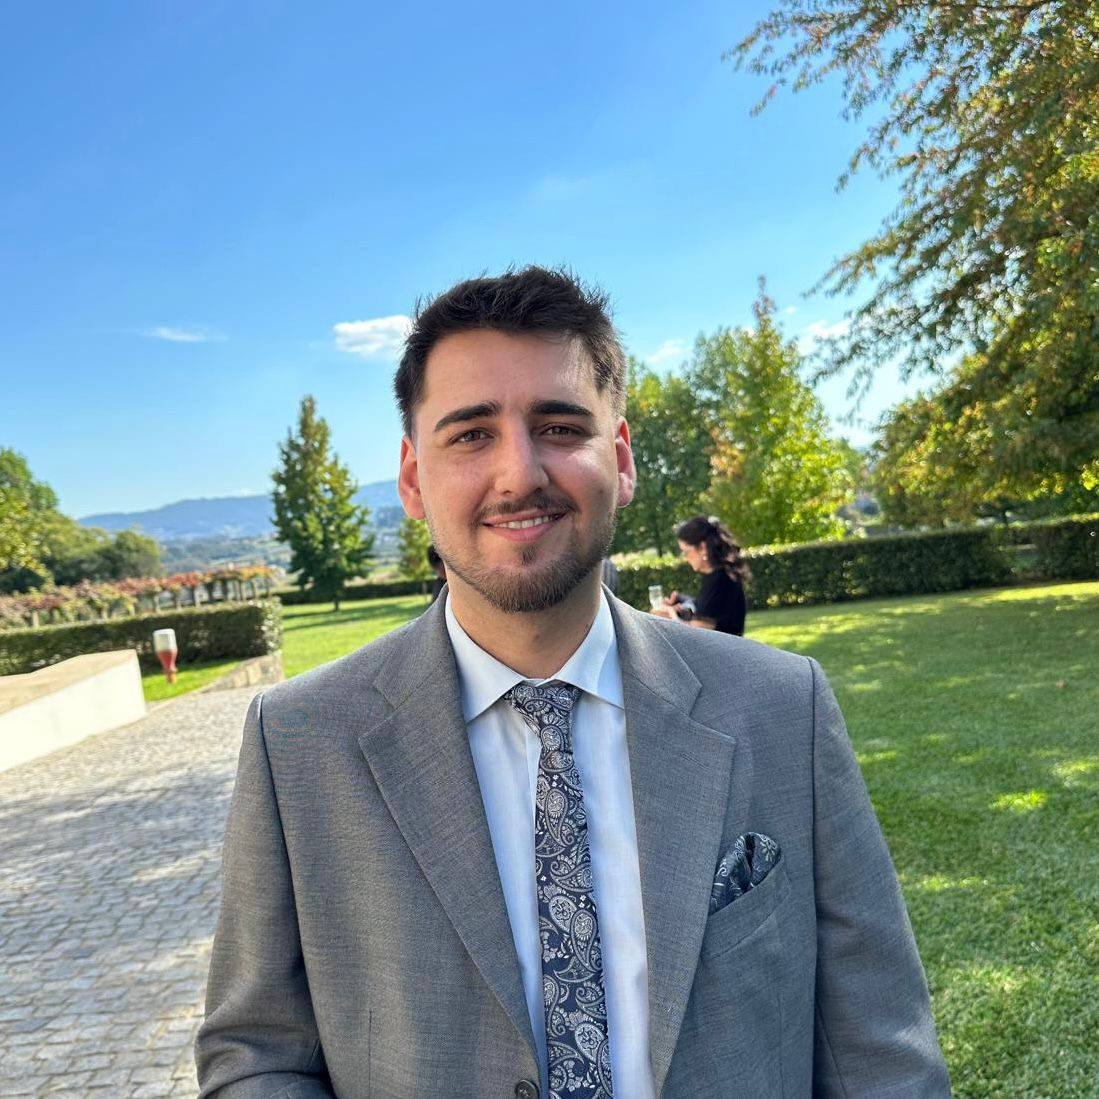
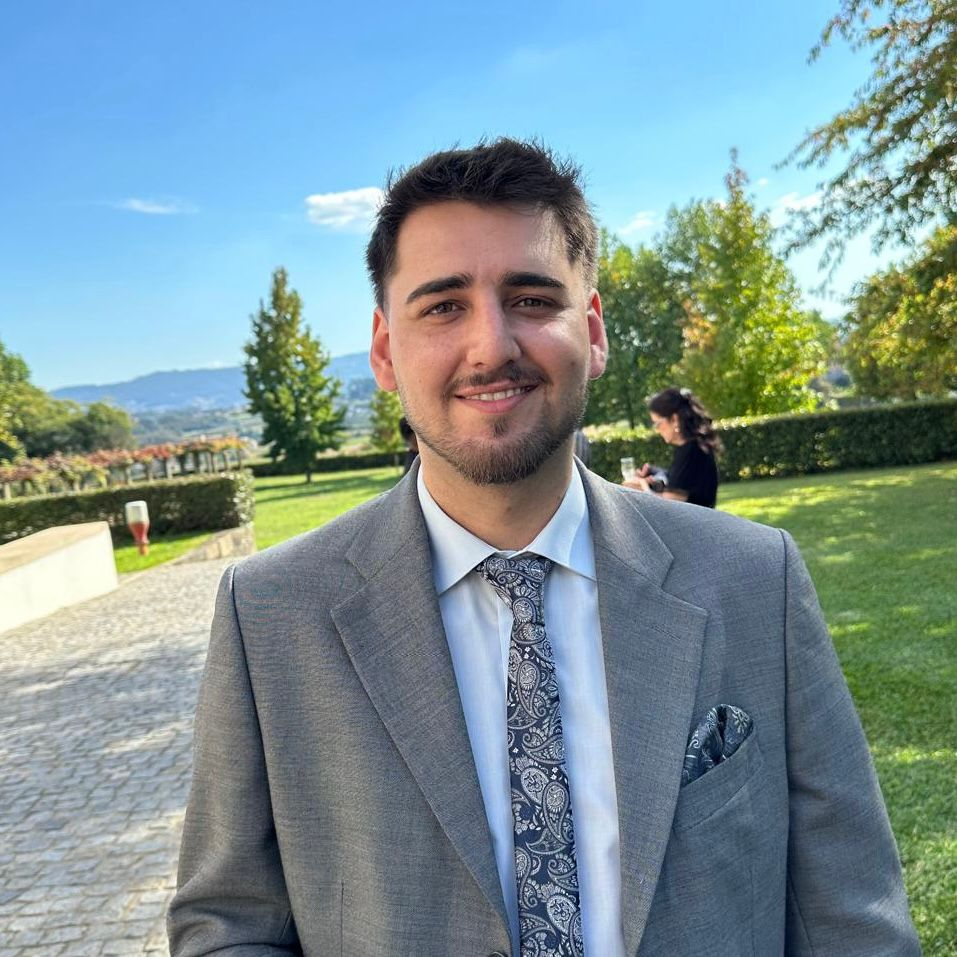
fix: cut more pic of dda fix: added index index.html to the config file in order for localhost to open directly index.html

diff --git a/www/html/index.html b/www/html/index.html
@@ -58,9 +58,9 @@
 				class="w-full md:w-[48%] mb-6 mt-12 max-w-3xl bg-black-900/15 backdrop-blur-md rounded-2xl p-8 shadow-[0_0_15px_rgba(100,20,120,0.8)]">
 				<h3 class="mt-2 mb-6 text-[rgba(100,20,120,1)] uppercase">GET Request Test:</h3>
 				<div class="flex justify-center">
-					<form class="mb-2 flex" action="/index.html" method="GET">
-						<input class="text-[rgba(100,20,120,1)] px-4 py-2 rounded-2xl" type="text" name="path"
-							placeholder="Enter a location path">
+					<form id="get-method-form" class="mb-2 flex" action="/index.html" method="GET">
+						<input id="get-path-input" class="text-[rgba(100,20,120,1)] px-4 py-2 rounded-2xl" type="text"
+							name="path" placeholder="Enter a location path">
 						<button class="ml-3 text-gray-500 px-4 py-2 rounded-full shadow-[0_0_15px_rgba(100,20,120,0.8)] hover:shadow-[0_0_8px_rgba(100,20,120,0.80)] 
                    transition-all duration-300" type="submit">Search Info</button>
 					</form>
@@ -171,10 +171,9 @@
 								'bg-black-900/15'
 							);
 
-							if (targetId == '#method-testing') 
+							if (targetId == '#method-testing')
 								mainContainer.classList.add('max-w-6xl');
-							else
-							{
+							else {
 								mainContainer.classList.add(
 									'backdrop-blur-md', 'rounded-2xl', 'p-8',
 									'shadow-[0_0_15px_rgba(100,20,120,0.8)]',
@@ -199,6 +198,27 @@
 					}, 300);
 				}
 			});
+		});
+
+		//to prevent the button 'Search Info' from reloading the page
+		//check if the URL has a hash or query params
+		window.addEventListener('load', () => {
+			const hash = window.location.hash;
+			const urlParams = new URLSearchParams(window.location.search);
+
+			// if there is a search query (?path=...), force the view to Method Testing
+			if (urlParams.has('path')) 
+			{
+				const testingLink = document.querySelector('a[href="#method-testing"]');
+				if (testingLink) 
+					testingLink.click();
+			} 
+			else if (hash) 
+			{
+				// if there's just a hash (#gallery), go there
+				const link = document.querySelector(`a[href="${hash}"]`);
+				if (link) link.click();
+			}
 		});
 	</script>
 </body>
